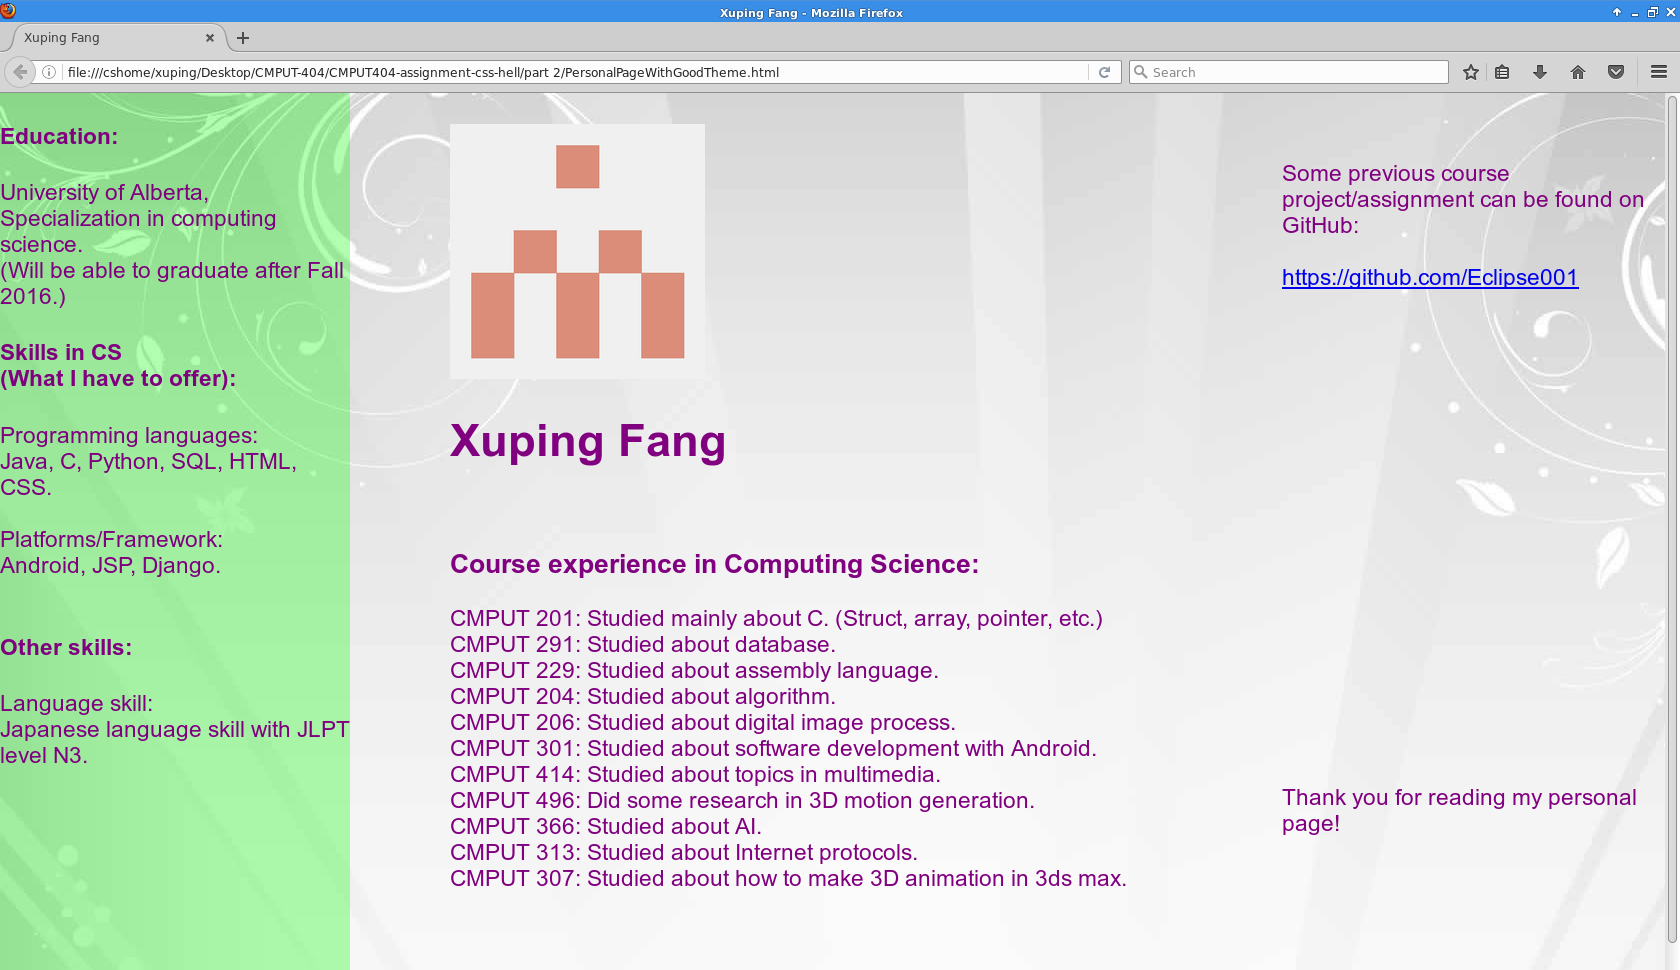
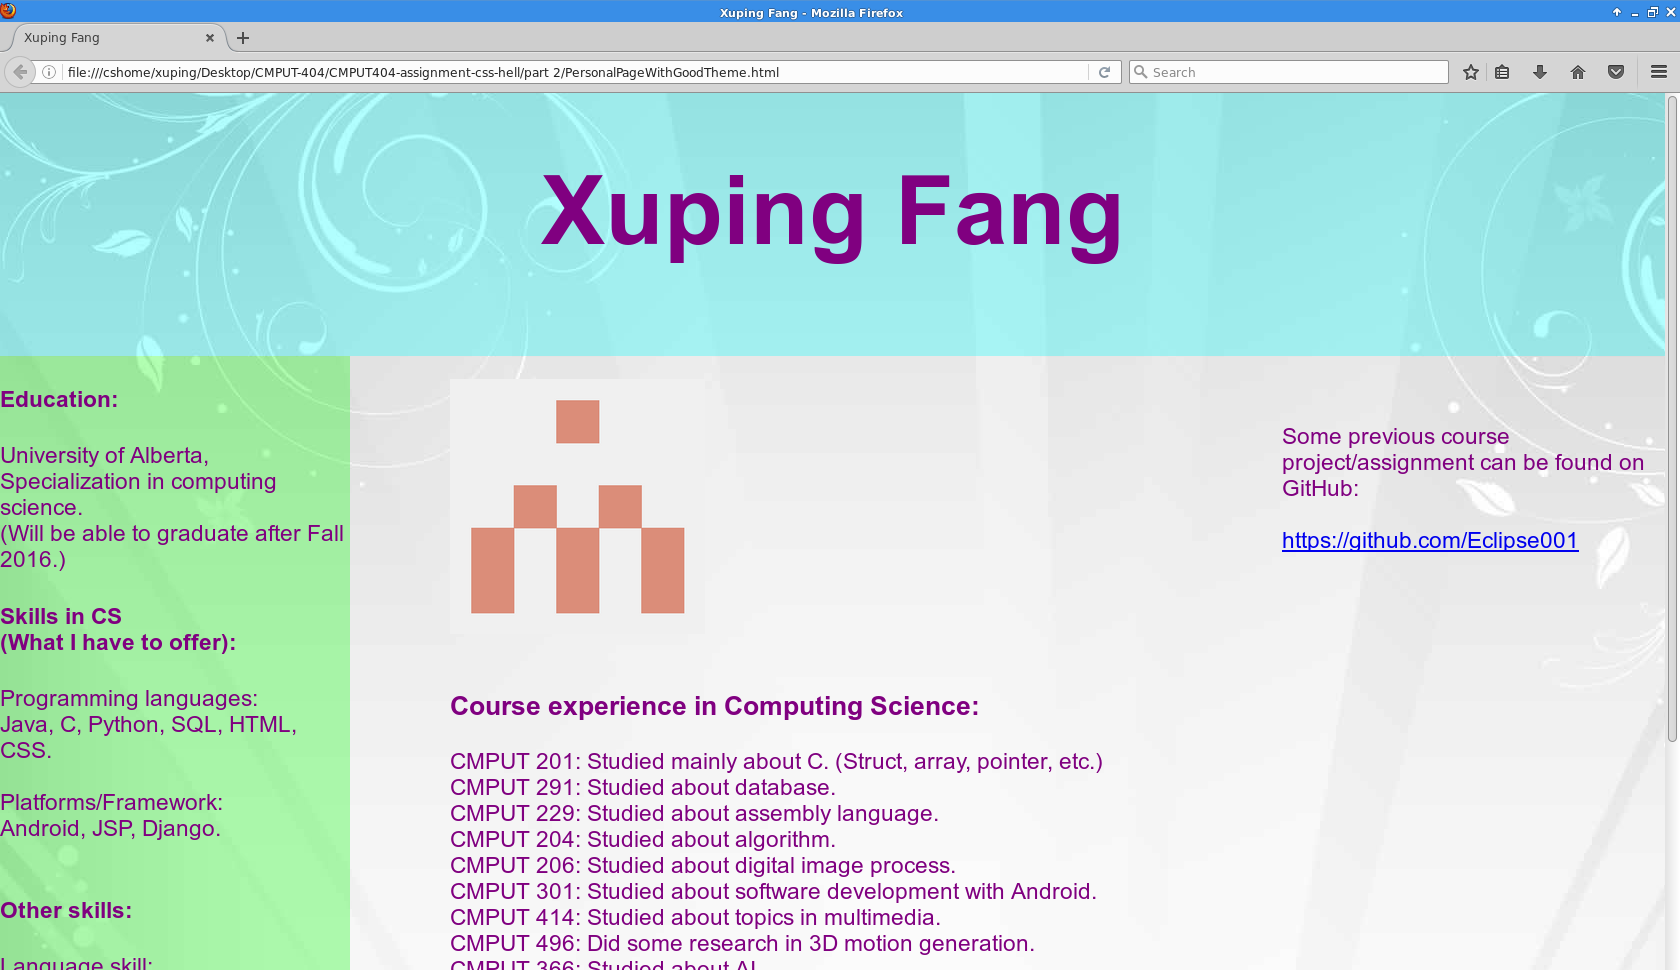
some changes to html in part 2.

diff --git a/part 2/goodTheme.css b/part 2/goodTheme.css
@@ -4,6 +4,20 @@ body{
 	color: purple;
 }
 
+.topic_bar{
+	font-family: Arial;
+	font-size: 36pt;
+	text-align: center;
+	
+	position: absolute;
+   top: 0%;
+   left: 0%;
+   width: 100%;
+   height: 30%;
+   border: 3px;
+   background-color: rgba(0,255,255,0.3);
+}
+
 .sidebar{
 
 	font-family: Arial;
@@ -11,7 +25,7 @@ body{
 	text-align: left;
 	
 	position: absolute;
-   top: 0px;
+   top: 30%;
    left: 0%;
    width: 350px;
    height: 900px;
@@ -25,6 +39,7 @@ body{
 	text-align: left;
 	
 	position: absolute;
+	top:30%;
    left: 27%;
    width: 750px;
 }
@@ -35,7 +50,7 @@ body{
 	text-align: left;
 	
 	position: absolute;
-   top: 5%;
+   top: 35%;
    left: 77%;
 }
 

diff --git a/part 2/PersonalPageWithGoodTheme.html b/part 2/PersonalPageWithGoodTheme.html
@@ -30,7 +30,7 @@
 		<div class="main_text">
 			<p>
 				<img src="profile_pic.png" height="255" width="255">
-				<h1> Xuping Fang </h1>
+				<br>
 				<br>
 				<h3> Course experience in Computing Science:</h3>
 				CMPUT 201: Studied mainly about C. (Struct, array, pointer, etc.)<br>
@@ -45,6 +45,10 @@
 				CMPUT 313: Studied about Internet protocols.<br> 
 				CMPUT 307: Studied about how to make 3D animation in 3ds max.<br>
 			</p>  
+		</div>
+		
+		<div class=topic_bar>
+			<h1>Xuping Fang</h1>
 		</div>
 		
 		<div class="right_section">

diff --git a/part 2/PersonalPageWithUglyTheme.html b/part 2/PersonalPageWithUglyTheme.html
@@ -30,7 +30,7 @@
 		<div class="main_text">
 			<p>
 				<img src="profile_pic.png" height="255" width="255">
-				<h1> Xuping Fang </h1>
+				<br>
 				<br>
 				<h3> Course experience in Computing Science:</h3>
 				CMPUT 201: Studied mainly about C. (Struct, array, pointer, etc.)<br>
@@ -45,6 +45,10 @@
 				CMPUT 313: Studied about Internet protocols.<br> 
 				CMPUT 307: Studied about how to make 3D animation in 3ds max.<br>
 			</p>  
+		</div>
+		
+		<div class=topic_bar>
+			<h1>Xuping Fang</h1>
 		</div>
 		
 		<div class="right_section">

diff --git a/part 2/uglyTheme.css b/part 2/uglyTheme.css
@@ -3,6 +3,20 @@ body{
 	text-align: justify;
 }
 
+.topic_bar{
+	font-family: Arial;
+	font-size: 36pt;
+	text-align: right;
+	
+	position: absolute;
+   top: 0%;
+   left: 0%;
+   width: 100%;
+   height: 30%;
+   border: 3px;
+   background-color: rgba(0,0,0,0.5);
+}
+
 .sidebar{
 
 	font-family: Arial;
